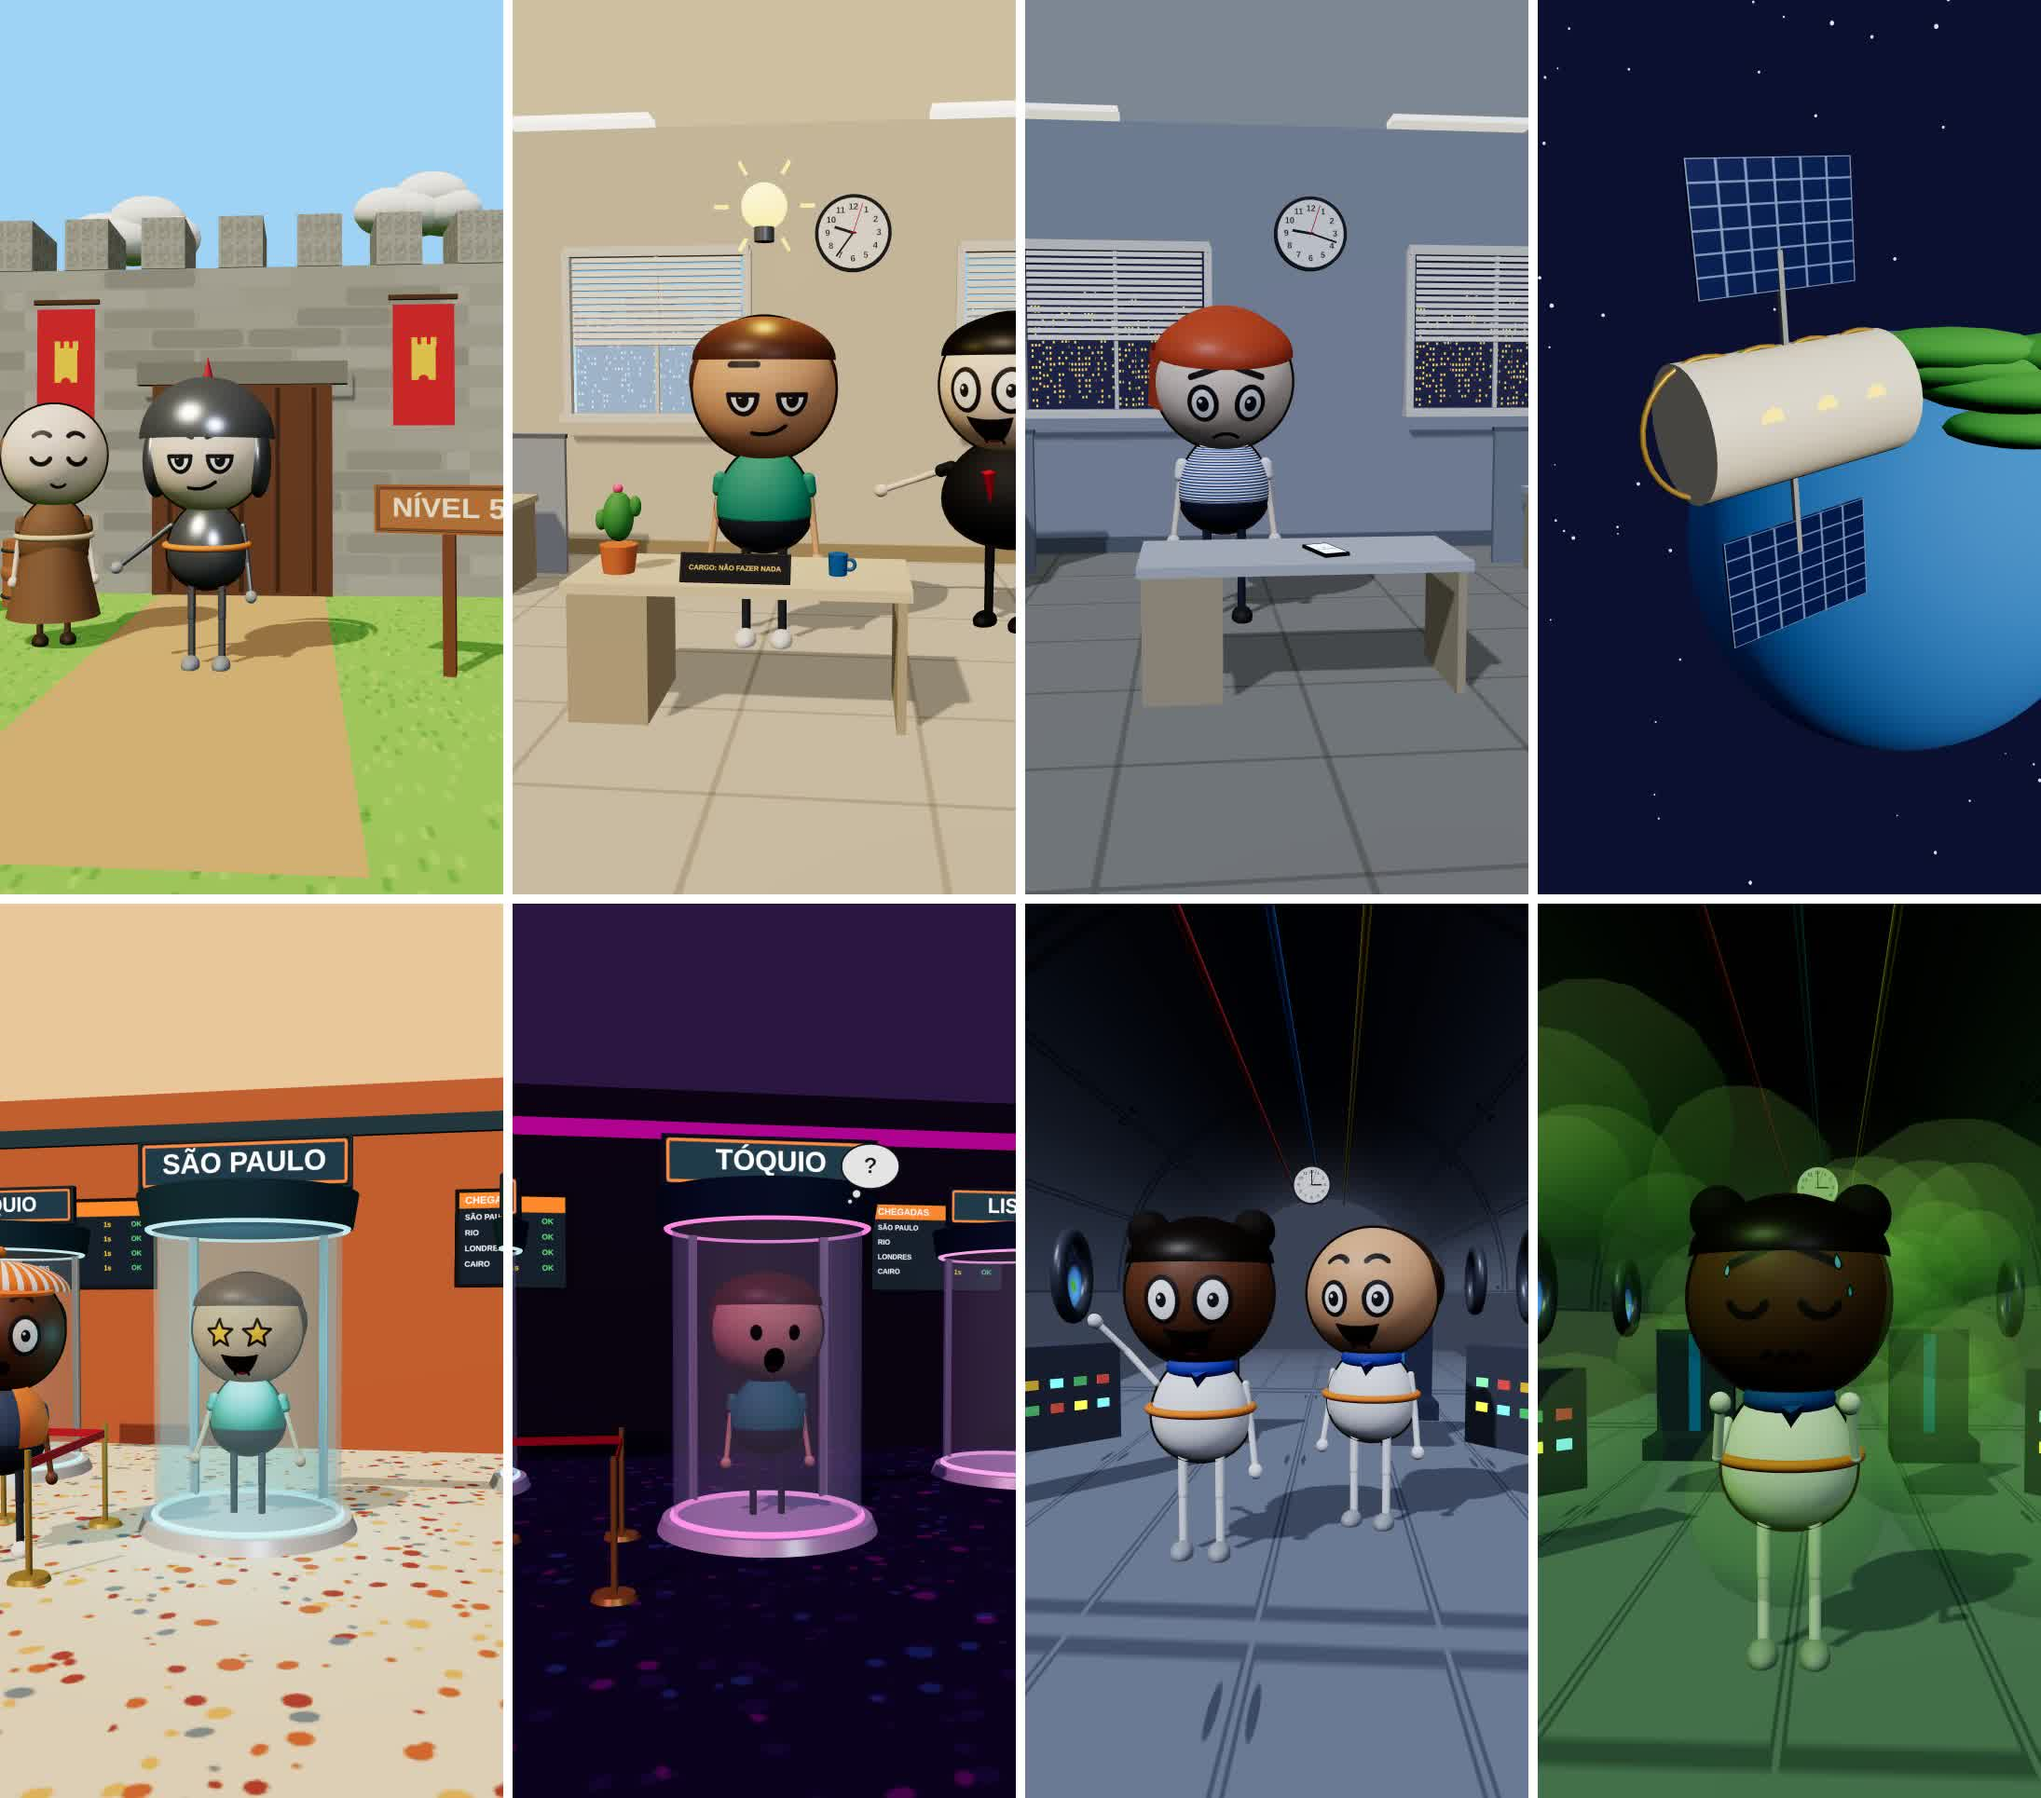
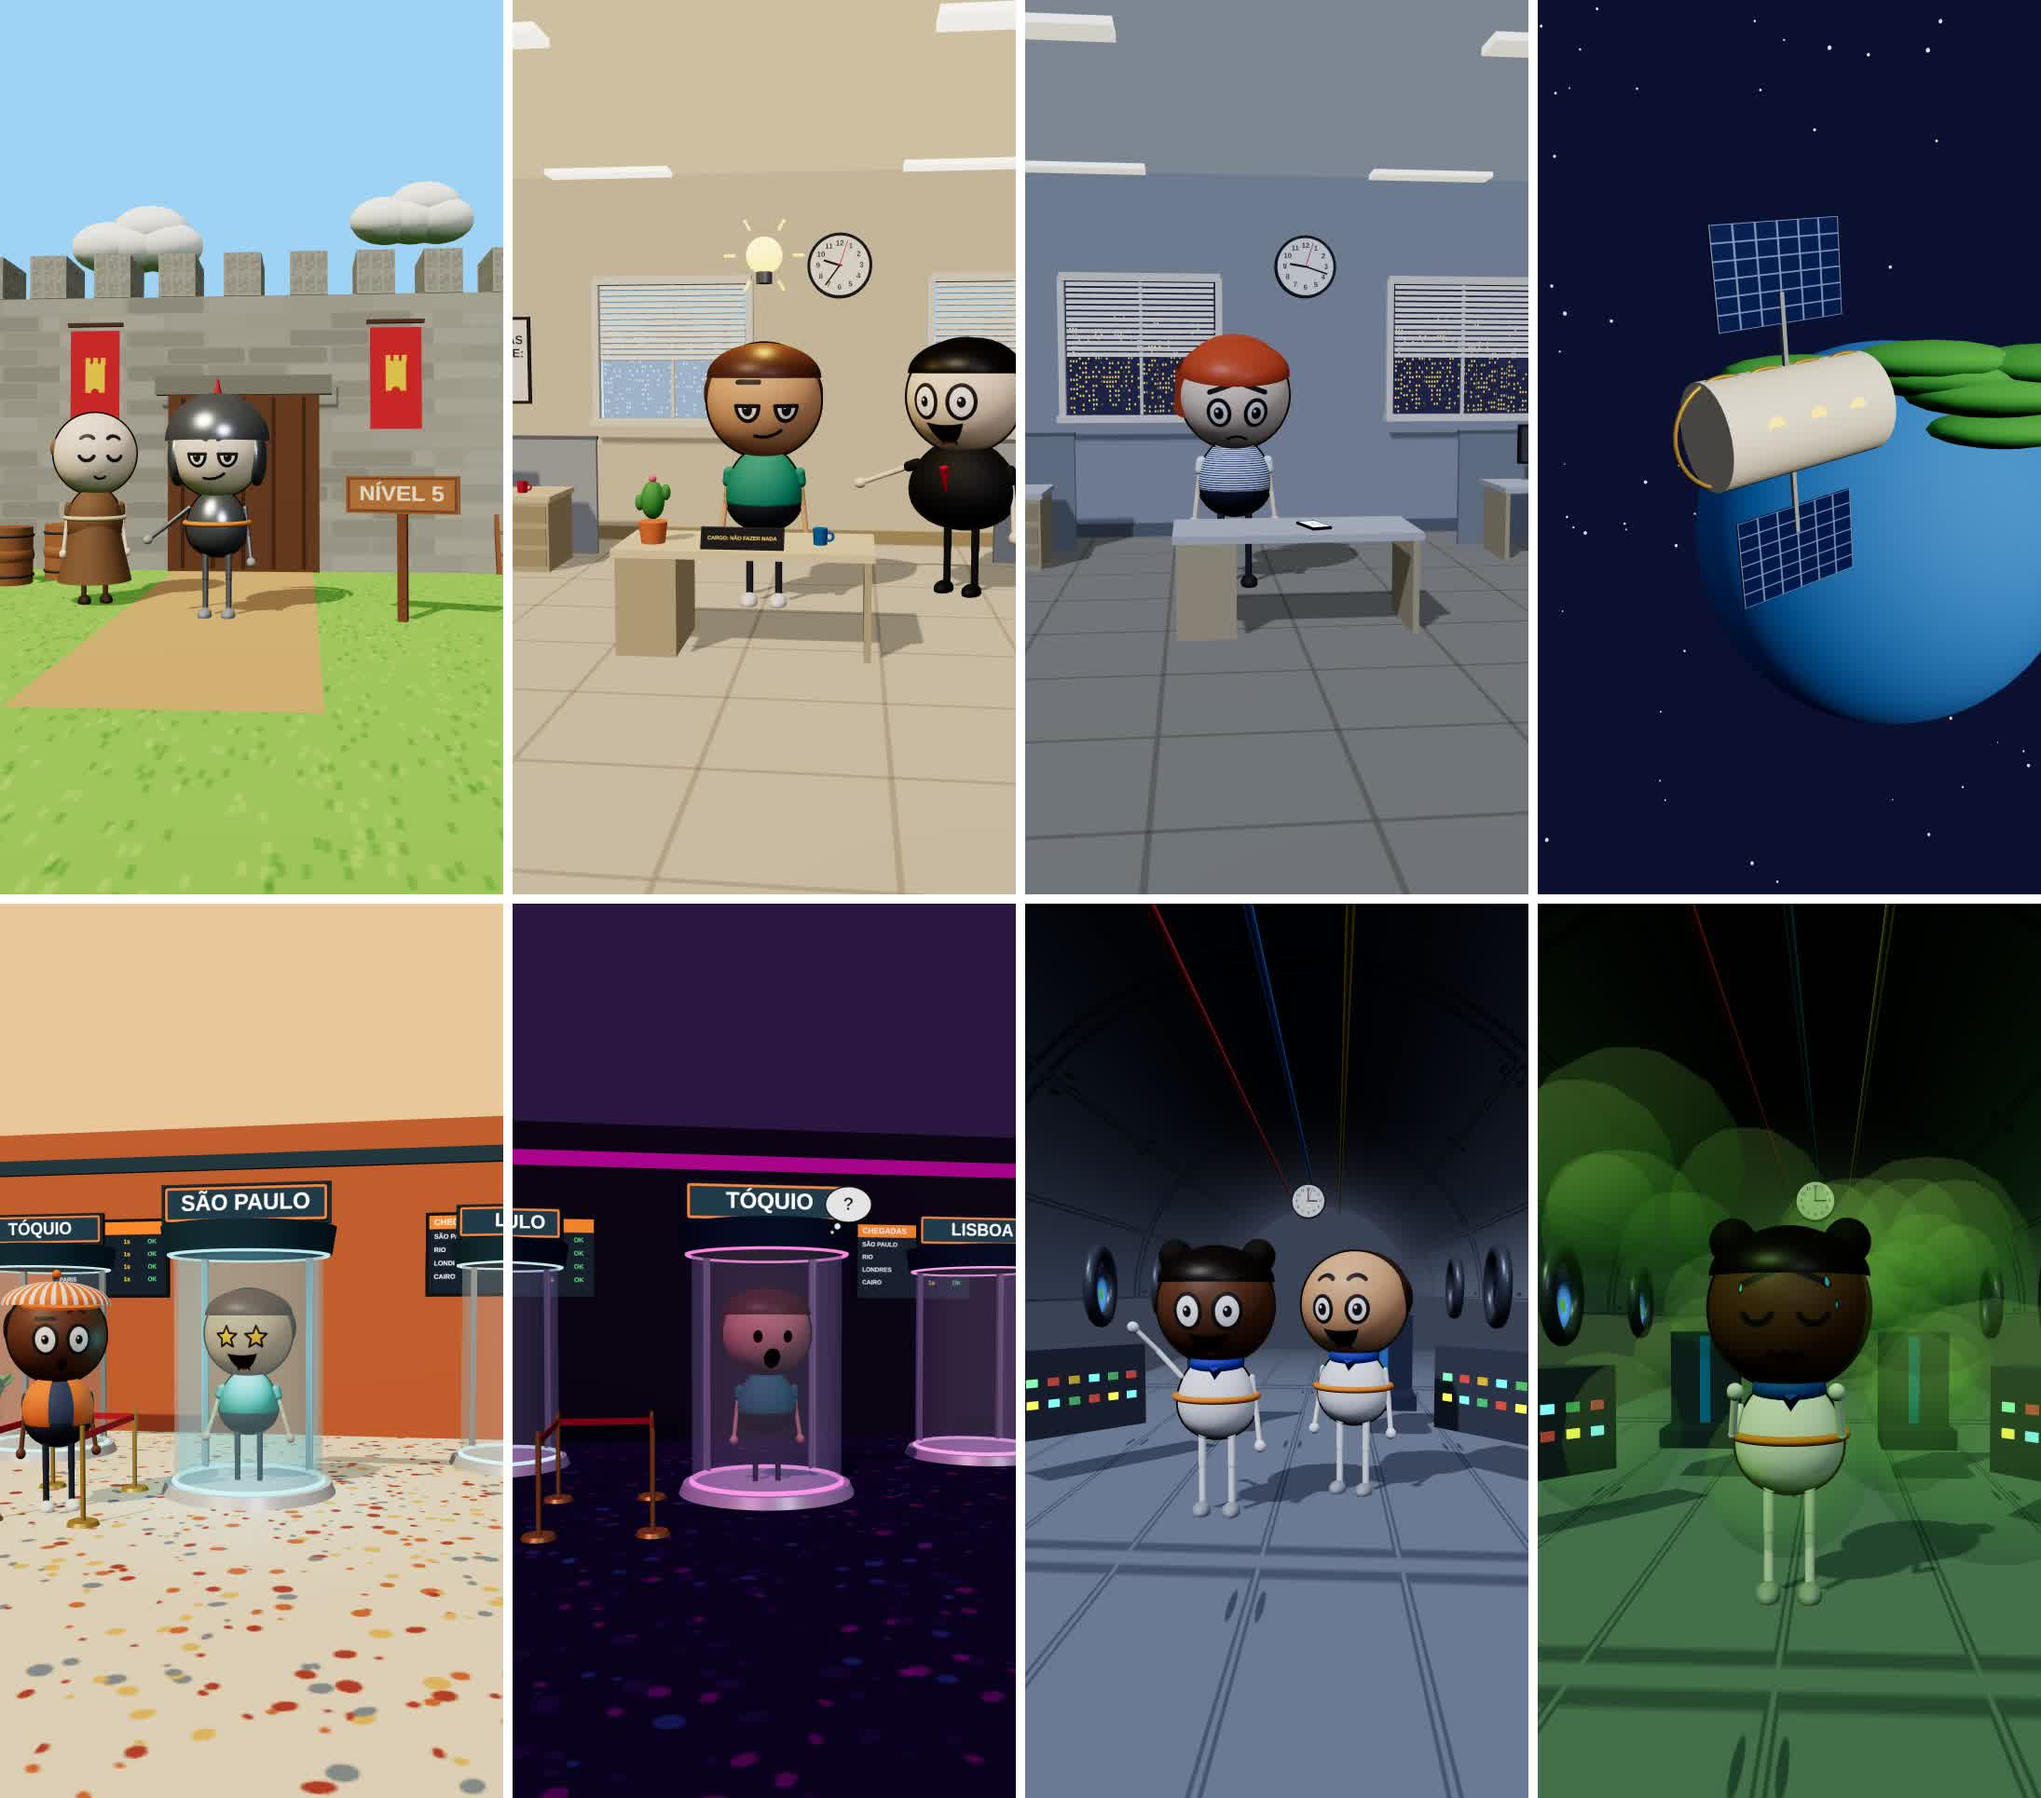
Câmera 25% mais longe em todas as tomadas (personagens menos colados)
AFASTAMENTO em sets.tsx aplicado pela Cam; regra de enquadramento no CLAUDE.md
passa a 1/3–1/2 da altura do quadro.

Claude-Session: https://claude.ai/code/session_016bHbYKiNFahAkYpXj2UE3y

diff --git a/estudio-animacoes-3d/src/sets.tsx b/estudio-animacoes-3d/src/sets.tsx
@@ -8,6 +8,9 @@ import { cobbleTex, crateTex, plasterTex, tileTex, windowsTex } from './textures
 // ---------- Câmera ----------
 // Nunca para: segue as chaves, avança ~5%/s, acelera para dentro do corte e chega no plano seguinte já em movimento.
 // fov é multiplicado por 1.6 porque no vertical 9:16 o fov do three é vertical.
+// Afastamento geral da câmera em todas as tomadas (1 = como foi escrito na tomada; 1.25 = 25% mais longe).
+// Preferência do dono do estúdio: personagens um pouco mais distantes, ocupando ~1/3 a 1/2 da altura do quadro.
+export const AFASTAMENTO = 1.25;
 export type CamKey = [number, V3, V3, number?, number?]; // tempo, posição, alvo, fov, giro (inclinação holandesa, rad)
 export const Cam = ({ t, t0, t1, keys }: { t: number; t0: number; t1: number; keys: CamKey[] }) => {
   const camera = useThree((s) => s.camera) as THREE.PerspectiveCamera;
@@ -23,7 +26,7 @@ export const Cam = ({ t, t0, t1, keys }: { t: number; t0: number; t1: number; ke
     const roll = (a[4] ?? 0) + ((b[4] ?? 0) - (a[4] ?? 0)) * k;
     const creep = 1 - 0.05 * Math.max(0, t - t0);
     const xin = clamp01((t - (t1 - 0.3)) / 0.5);
-    const f = creep * (1 - 0.14 * xin * xin) * (1 + 0.07 * Math.pow(1 - clamp01((t - t0) / 0.4), 2));
+    const f = AFASTAMENTO * creep * (1 - 0.14 * xin * xin) * (1 + 0.07 * Math.pow(1 - clamp01((t - t0) / 0.4), 2));
     camera.position.set(tgt[0] + (pos[0] - tgt[0]) * f, tgt[1] + (pos[1] - tgt[1]) * f, tgt[2] + (pos[2] - tgt[2]) * f);
     camera.lookAt(tgt[0], tgt[1], tgt[2]);
     if (roll) camera.rotateZ(roll);

diff --git a/estudio-animacoes-3d/CLAUDE.md b/estudio-animacoes-3d/CLAUDE.md
@@ -142,7 +142,9 @@ estas regras. Quando uma regra não puder ser cumprida, avise antes de seguir.
 - Nunca para totalmente e nunca treme: movimentos suaves (empurra, recua, órbita, grua, travelling) começando numa palavra.
 - Uma imagem nova a cada ~1–2 s (nova tomada ou mudança clara de enquadramento).
 - Tomadas se ligam com dissolução de 6 quadros começando na primeira palavra da frase nova.
-- O enquadramento mostra o que a narração diz **naquele momento**. Personagem ocupa de 1/3 a 2/3 da altura do quadro.
+- O enquadramento mostra o que a narração diz **naquele momento**. Personagem ocupa de **1/3 a 1/2** da altura do quadro
+  (preferência do dono: personagens um pouco mais distantes, com cenário visível em volta). A `Cam` já afasta tudo 25%
+  (`AFASTAMENTO` em `src/sets.tsx`); closes de rosto só nos momentos de choque.
 
 ## Narração e tempos
 - Roteiro em segunda pessoa, gancho na primeira frase, uma ideia visual por frase, ênfase com `*palavra*`.
